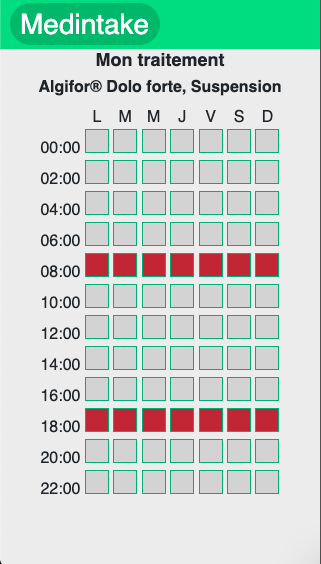
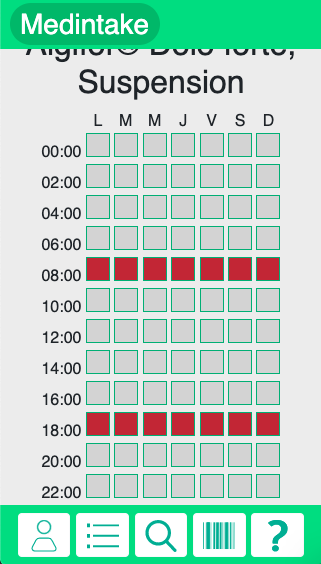
added footer in treatment page

Changed region(s): [[0.0, 0.0, 1.0, 1.0]]

diff --git a/projet/imports/ui/scripts/applicationLayout.js b/projet/imports/ui/scripts/applicationLayout.js
@@ -112,5 +112,6 @@ Router.route('/treatment/:_id', function () {
 		data: () => {
 			return Drugs.findOne({_id: this.params._id});
 		}
-	})
+	});
+	this.render('footerBar', { to: 'footer'});
 });
